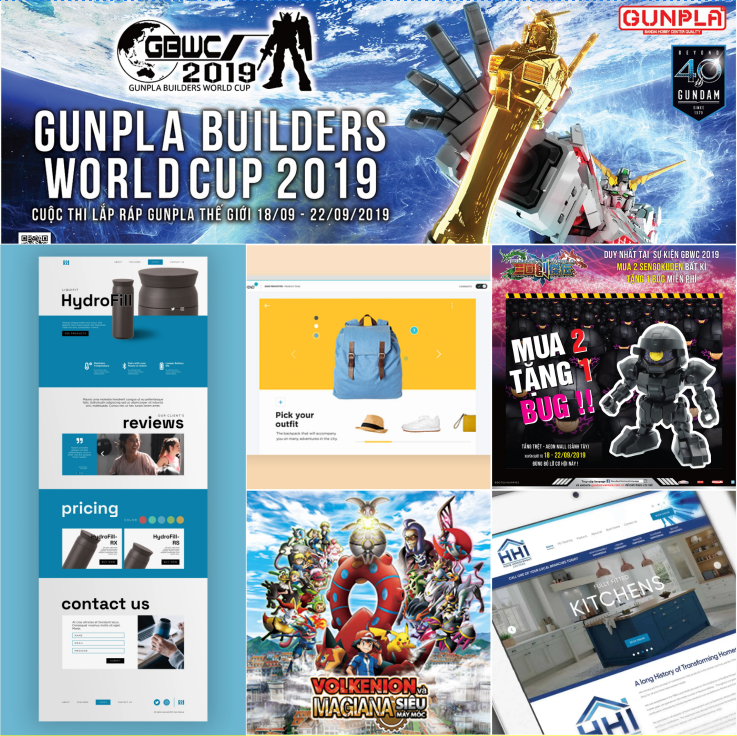
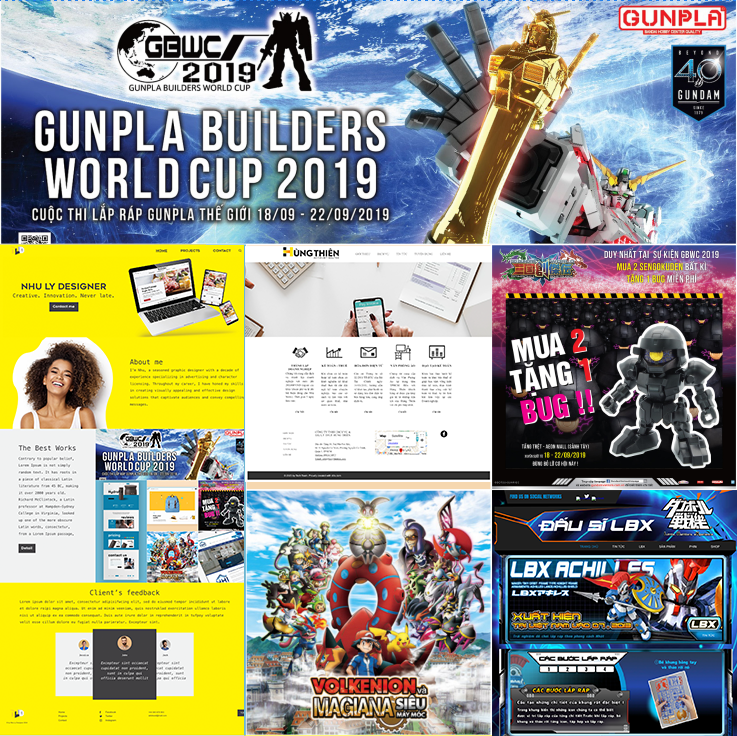
added reference stock images

diff --git a/projects.html b/projects.html
@@ -89,27 +89,27 @@
                                     <img srcset="web-cat-1-1x.png 142w, web-cat-1-2x.png 285w" sizes="(max-width: 600px) 142px, 285px" src="images/web-cat-1-2x.png" alt="cat-img" class="img-fluid">
                                 </picture>
                                 <div class="text-web card-body">
-                                    <a href="#" class="mt-2 text-decoration-none card-title"><strong>Hydro Fill</strong></a>
+                                    <a href="#" class="mt-2 text-decoration-none card-title"><strong>Dau Si LBX</strong></a>
                                 </div>
                             </div>
                             <div role="contentinfo" class="web-2 card border-0 text-center p-sm-0 col-6 col-lg-3">
                                 <picture>
-                                    <source media="(max-width: 430px)" srcset="images/web-cat-2-1x.jpeg">
-                                    <source media="(min-width: 430px)" srcset="images/web-cat-2-2x.jpeg">
-                                    <img srcset="web-cat-2-1x.png 142w, web-cat-2-2x.png 285w" sizes="(max-width: 600px) 142px, 285px" src="images/web-cat-2-2x.jpeg" alt="cat-img" class="img-fluid">
+                                    <source media="(max-width: 430px)" srcset="images/web-cat-2-1x.jpg">
+                                    <source media="(min-width: 430px)" srcset="images/web-cat-2-2x.jpg">
+                                    <img srcset="web-cat-2-1x.jpg 142w, web-cat-2-2x.jpg 285w" sizes="(max-width: 600px) 142px, 285px" src="images/web-cat-2-2x.jpg" alt="cat-img" class="img-fluid">
                                 </picture>
                                 <div class="text-web card-body">
-                                    <a href="#" class="mt-2 text-decoration-none card-title"><strong>Hubstaff</strong></a>
+                                    <a href="#" class="mt-2 text-decoration-none card-title"><strong>Hung Thien Accounting & Tax</strong></a>
                                 </div>
                             </div>
                             <div role="contentinfo" class="web-3 card border-0 text-center p-sm-0 col-6 col-lg-3">
                                 <picture>
-                                    <source media="(max-width: 430px)" srcset="images/web-cat-3-1x.jpeg">
-                                    <source media="(min-width: 430px)" srcset="images/web-cat-3-2x.jpeg">
-                                    <img srcset="web-cat-3-1x.png 142w, web-cat-3-2x.png 285w" sizes="(max-width: 600px) 142px, 285px" src="images/web-cat-3-2x.jpeg" alt="cat-img" class="img-fluid">
+                                    <source media="(max-width: 430px)" srcset="images/web-cat-3-1x.jpg">
+                                    <source media="(min-width: 430px)" srcset="images/web-cat-3-2x.jpg">
+                                    <img srcset="web-cat-3-1x.png 142w, web-cat-3-2x.png 285w" sizes="(max-width: 600px) 142px, 285px" src="images/web-cat-3-2x.jpg" alt="cat-img" class="img-fluid">
                                 </picture>
                                 <div class="text-web card-body">
-                                    <a href="#" class="mt-2 text-decoration-none card-title"><strong>Billey</strong></a>
+                                    <a href="#" class="mt-2 text-decoration-none card-title"><strong>Jane Ly Graphic Designer</strong></a>
                                 </div>
                             </div>
                             <div role="contentinfo" class="web-4 card border-0 text-center p-sm-0 col-6 col-lg-3">
@@ -119,7 +119,7 @@
                                     <img srcset="web-cat-4-1x.png 142w, web-cat-4-2x.png 285w" sizes="(max-width: 600px) 142px, 285px" src="images/web-cat-4-2x.png" alt="cat-img" class="img-fluid">
                                 </picture>
                                 <div class="text-web card-body">
-                                    <a href="#" class="mt-2 text-decoration-none card-title"><strong>Utech Media</strong></a>
+                                    <a href="#" class="mt-2 text-decoration-none card-title"><strong>Go Go Entertainment</strong></a>
                                 </div>
                             </div>
                         </div>
@@ -129,12 +129,12 @@
                         <div role="listitem" class="card-wrapper row">
                             <div role="contentinfo" class="web-3 card border-0 text-center p-sm-0 col-6 col-lg-3">
                                 <picture>
-                                    <source media="(max-width: 430px)" srcset="images/web-cat-3-1x.jpeg">
-                                    <source media="(min-width: 430px)" srcset="images/web-cat-3-2x.jpeg">
-                                    <img srcset="web-cat-3-1x.png 142w, web-cat-3-2x.png 285w" sizes="(max-width: 600px) 142px, 285px" src="images/web-cat-3-2x.jpeg" alt="cat-img" class="img-fluid">
+                                    <source media="(max-width: 430px)" srcset="images/web-cat-3-1x.jpg">
+                                    <source media="(min-width: 430px)" srcset="images/web-cat-3-2x.jpg">
+                                    <img srcset="web-cat-3-1x.jpg 142w, web-cat-3-2x.jpg 285w" sizes="(max-width: 600px) 142px, 285px" src="images/web-cat-3-2x.jpg" alt="cat-img" class="img-fluid">
                                 </picture>
                                 <div class="text-web card-body">
-                                    <a href="#" class="mt-2 text-decoration-none card-title"><strong>Billey</strong></a>
+                                    <a href="#" class="mt-2 text-decoration-none card-title"><strong>Jane Ly Graphic Designe</strong></a>
                                 </div>
                             </div>
                             <div role="contentinfo" class="web-1 card border-0 text-center p-sm-0 col-6 col-lg-3">
@@ -144,7 +144,7 @@
                                     <img srcset="web-cat-1-1x.png 142w, web-cat-1-2x.png 285w" sizes="(max-width: 600px) 142px, 285px" src="images/web-cat-1-2x.png" alt="cat-img" class="img-fluid">
                                 </picture>
                                 <div class="text-web card-body">
-                                    <a href="#" class="mt-2 text-decoration-none card-title"><strong>Hydro Fill</strong></a>
+                                    <a href="#" class="mt-2 text-decoration-none card-title"><strong>Dau Si LBX</strong></a>
                                 </div>
                             </div>
                             <div role="contentinfo" class="web-4 card border-0 text-center p-sm-0 col-6 col-lg-3">
@@ -154,17 +154,17 @@
                                     <img srcset="web-cat-4-1x.png 142w, web-cat-4-2x.png 285w" sizes="(max-width: 600px) 142px, 285px" src="images/web-cat-4-2x.png" alt="cat-img" class="img-fluid">
                                 </picture>
                                 <div class="text-web card-body">
-                                    <a href="#" class="mt-2 text-decoration-none card-title"><strong>Utech Media</strong></a>
+                                    <a href="#" class="mt-2 text-decoration-none card-title"><strong>Go Go Entertainment</strong></a>
                                 </div>
                             </div>
                             <div role="contentinfo" class="web-2 card border-0 text-center p-sm-0 col-6 col-lg-3">
                                 <picture>
-                                    <source media="(max-width: 430px)" srcset="images/web-cat-2-1x.jpeg">
-                                    <source media="(min-width: 430px)" srcset="images/web-cat-2-2x.jpeg">
-                                    <img srcset="web-cat-2-1x.png 142w, web-cat-2-2x.png 285w" sizes="(max-width: 600px) 142px, 285px" src="images/web-cat-2-2x.jpeg" alt="cat-img" class="img-fluid">
+                                    <source media="(max-width: 430px)" srcset="images/web-cat-2-1x.jpg">
+                                    <source media="(min-width: 430px)" srcset="images/web-cat-2-2x.jpg">
+                                    <img srcset="web-cat-2-1x.jpg 142w, web-cat-2-2x.jpg 285w" sizes="(max-width: 600px) 142px, 285px" src="images/web-cat-2-2x.jpg" alt="cat-img" class="img-fluid">
                                 </picture>
                                 <div class="text-web card-body">
-                                    <a href="#" class="mt-2 text-decoration-none card-title"><strong>Hubstaff</strong></a>
+                                    <a href="#" class="mt-2 text-decoration-none card-title"><strong>Hung Thien Accounting & Tax</strong></a>
                                 </div>
                             </div>
                         </div>

diff --git a/README.md b/README.md
@@ -2,3 +2,8 @@
 My process is pretty simple. Firstly, I added all HTML elements to the site, remember to divide them into small groups, such as nav, banner, about, and best work, which suits my content. Secondly, I went back to the small group and worked on bootstrap to add styling. Thirdly, I moved to CSS to add media queries for responsive images and content sizes.
 My challenges were getting familiar with bootstrap because I used CSS for the whole 2 semesters, which made it easy to build styling for my site. It took me a me a few days to understand Bootstrap and to know how to use their key words for searching.
 What I have learned is that everything starts with the small parts; don’t rush.
+
+Stock image:
+https://www.stryx.com/cdn/shop/articles/man-looking-attractive.jpg?v=1666662774
+https://cdn.optinmonster.com/wp-content/uploads/2023/02/Filestages-Buyer-Persona-Template.png
+https://cba.ca/Assets/CBA/Images/Article/banners/bannre_focus_women.jpg
